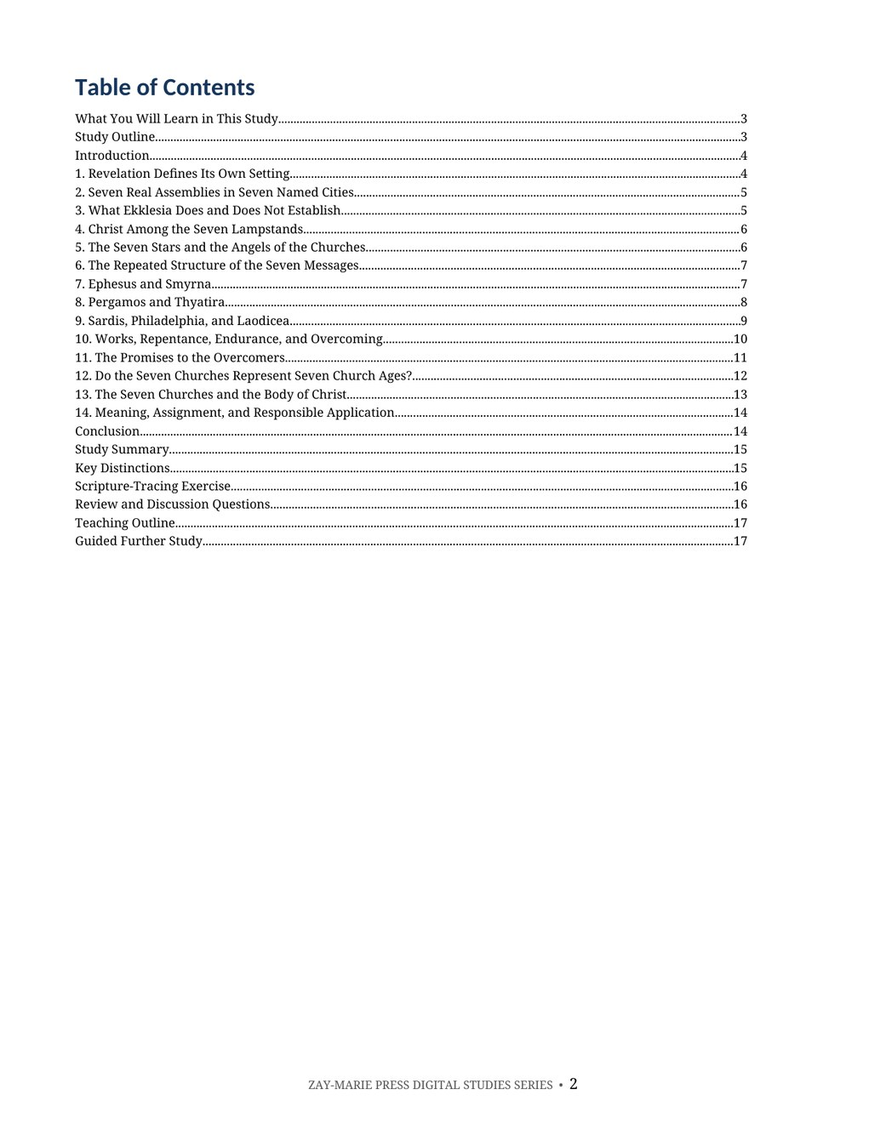
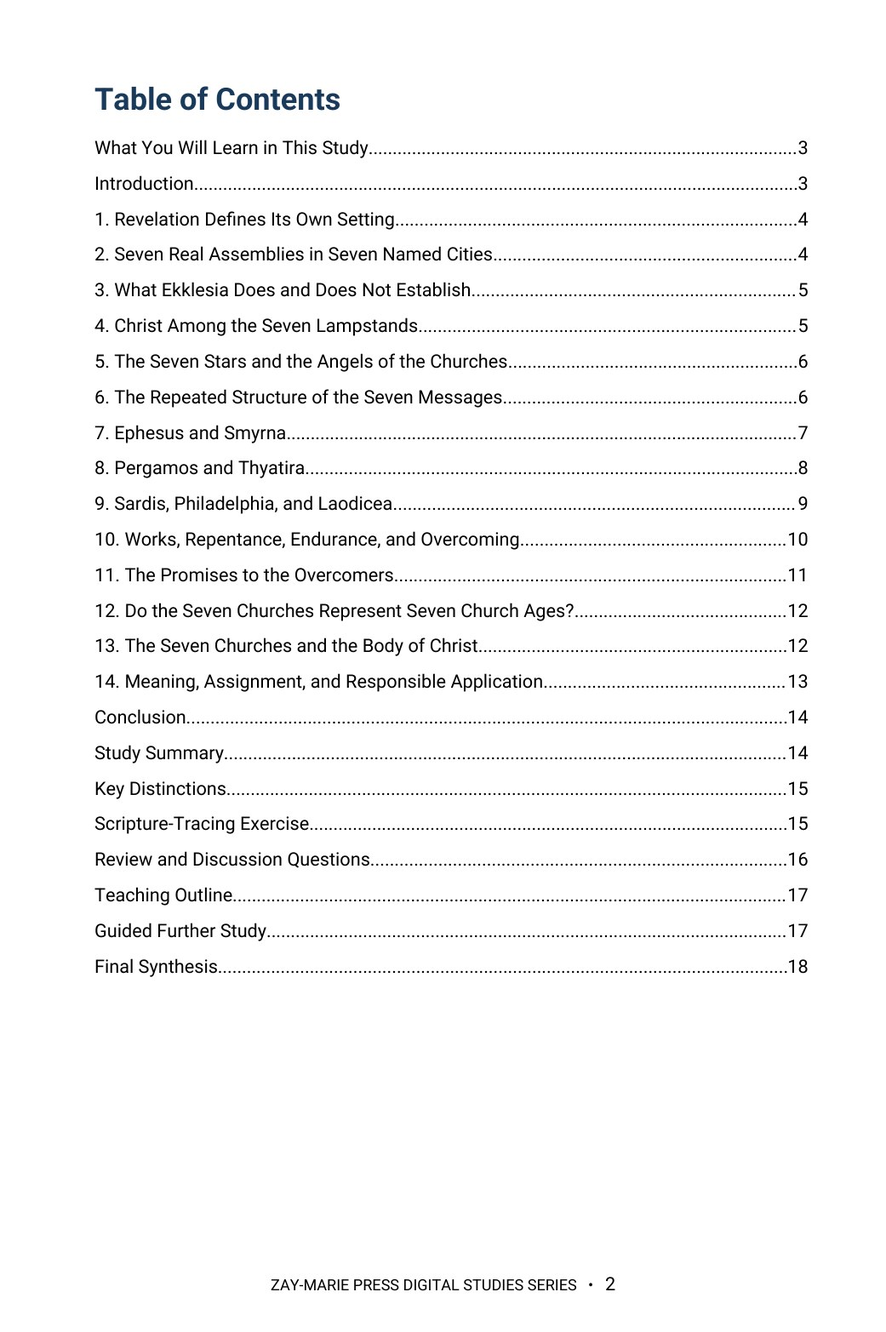
Study 26: Roboto/Standard rebuild, new cover with ISRAEL & PROPHECY label, previews 2/3/11, 18 pages; PAM audit v1.55
Claude-Session: https://claude.ai/code/session_01TLNFW47XCW6YAMUxScR3v4

diff --git a/study-26-the-seven-churches-of-revelation.html b/study-26-the-seven-churches-of-revelation.html
@@ -2,12 +2,12 @@
 <html lang="en"><head><meta charset="utf-8"><meta name="viewport" content="width=device-width,initial-scale=1"><title>The Seven Churches of Revelation - Study 26 | Zay-Marie Press</title><meta name="description" content="Examine the seven historical assemblies of Revelation 1-3 within the book’s prophetic setting and distinguish them from the Body of Christ."><link rel="stylesheet" href="styles.css"><link rel="icon" type="image/png" href="assets/zay-marie-press-favicon.png"><style>
 .study-detail-page{background:#fff;color:#252525}.detail-hero{background:linear-gradient(135deg,#f8f5ec,#e3ece2);padding:58px 0}.detail-hero-grid{display:grid;grid-template-columns:minmax(250px,.72fr) minmax(0,1.28fr);gap:58px;align-items:center}.detail-cover{max-width:390px;margin:auto}.detail-cover img{display:block;width:100%;height:auto;box-shadow:0 14px 36px rgba(8,45,69,.18)}.detail-hero h1{font-size:clamp(2.7rem,5vw,4.7rem);line-height:1.02;margin:8px 0 10px;color:#143823}.detail-subtitle{font-family:Georgia,serif;font-size:1.35rem;font-weight:700;color:#082d45;margin:0 0 7px}.detail-kicker{font-family:Georgia,serif;font-style:italic;font-size:1.05rem;color:#4a4a44;margin:0 0 22px}.detail-copy{font-size:1.08rem;line-height:1.65;max-width:760px}.detail-buyline{display:flex;align-items:center;gap:18px;flex-wrap:wrap;margin-top:25px}.detail-price{font-family:Georgia,serif;font-size:2rem;font-weight:700;color:#143823}.detail-format,.preview-card .page-no{font-family:Arial,sans-serif;font-size:.76rem;font-weight:700;letter-spacing:.1em;text-transform:uppercase;color:#176b3a}.detail-button{display:inline-block;background:#176b3a;color:#fff;padding:13px 22px;font-family:Arial,sans-serif;font-size:.8rem;font-weight:700;letter-spacing:.07em;text-transform:uppercase}.detail-button.pending{opacity:.72;cursor:default}.detail-section{padding:66px 0}.detail-section.soft{background:#f6f7f2}.detail-section.cream{background:#faf8f2}.detail-section h2{color:#143823;margin:6px 0 18px;font-size:clamp(2rem,3.4vw,3rem)}.detail-section .lead{max-width:920px;font-size:1.1rem;line-height:1.62}.study-points{display:grid;grid-template-columns:repeat(3,1fr);gap:18px;margin-top:28px;margin-bottom:28px}.study-point,.scripture-card,.preview-card,.include-item{background:#fff;border:1px solid var(--line);text-align:left}.study-point{border-top:3px solid #176b3a;padding:22px}.study-point h3{color:#143823;margin:0 0 8px;font-size:1.2rem}.study-point p,.scripture-card p,.preview-card p,.include-item p{margin:0;line-height:1.55}.scripture-grid{display:grid;grid-template-columns:repeat(4,1fr);gap:14px;margin-top:24px;margin-bottom:24px}.scripture-card{padding:22px 20px;color:#143823}.scripture-card h3{margin:0 0 9px;font-family:Georgia,serif;font-size:1rem;line-height:1.35}.scripture-card p{font-size:.94rem;color:#45453f}.excerpt{max-width:900px;margin:28px auto;border-left:4px solid #b8871c;padding:10px 0 10px 28px}.excerpt blockquote{font-family:Georgia,serif;font-size:clamp(1.45rem,2.5vw,2rem);line-height:1.45;color:#143823;margin:0 0 16px}.excerpt p{line-height:1.6;margin:0}.preview-grid{display:grid;grid-template-columns:repeat(2,1fr);gap:20px;margin-top:28px;margin-bottom:28px}.preview-card{padding:18px;min-height:210px;box-shadow:0 7px 20px rgba(20,40,25,.05)}.preview-image-link{display:block;margin:0 0 18px}.preview-image-link img{display:block;width:100%;height:auto;border:1px solid #d8d1bf;box-shadow:0 8px 22px rgba(20,40,25,.1);transition:transform .18s ease,box-shadow .18s ease}.preview-image-link:hover img{transform:translateY(-2px);box-shadow:0 11px 28px rgba(20,40,25,.16)}.preview-card h3{color:#143823;margin:8px 0 10px}.preview-instruction{margin:10px 0 0;font-family:Arial,sans-serif;font-size:.78rem;letter-spacing:.04em;color:#5b5b55}.includes-grid{display:grid;grid-template-columns:repeat(4,1fr);gap:14px;margin-top:26px}.include-item{padding:22px 20px;color:#143823}.include-item h3{margin:0 0 9px;font-family:Arial,sans-serif;font-size:.86rem;line-height:1.35;letter-spacing:.02em}.include-item p{font-size:.94rem;color:#45453f}.final-buy{background:#082d45;color:#fff;border-top:4px solid #b8871c;padding:42px 48px;display:grid;grid-template-columns:1fr auto;gap:36px;align-items:center}.final-buy .eyebrow,.final-buy h2,.final-buy .detail-price{color:#fff}.final-buy h2{margin:7px 0 6px}.final-buy p{margin:0}.final-offer{text-align:center}.back-link{display:inline-block;margin-top:18px;color:#143823;font-family:Arial,sans-serif;font-weight:700;text-decoration:none}.preview-lightbox{position:fixed;inset:0;z-index:10000;display:none;align-items:flex-start;justify-content:center;background:rgba(8,22,16,.88);padding:24px;overflow:auto}.preview-lightbox.open{display:flex}.preview-lightbox img{display:block;width:auto;height:auto;max-width:none;box-shadow:0 18px 55px rgba(0,0,0,.4);background:#fff}.preview-lightbox-close{position:fixed;top:18px;right:24px;z-index:10001;width:46px;height:46px;border:1px solid rgba(255,255,255,.65);border-radius:50%;background:rgba(0,0,0,.55);color:#fff;font:32px/1 Arial,sans-serif;cursor:pointer}@media(max-width:900px){.detail-hero-grid{grid-template-columns:1fr;gap:34px}.detail-cover{max-width:330px}.study-points{grid-template-columns:repeat(2,1fr)}.scripture-grid,.includes-grid{grid-template-columns:repeat(2,1fr)}.preview-grid,.final-buy{grid-template-columns:1fr}.final-offer{text-align:left}}@media(max-width:560px){.detail-hero{padding:42px 0}.detail-section{padding:50px 0}.study-points,.scripture-grid,.includes-grid{grid-template-columns:1fr}.final-buy{padding:32px 24px}.detail-buyline{align-items:flex-start;flex-direction:column;gap:8px}.preview-lightbox{padding:58px 10px 24px}.preview-lightbox img{width:100%;max-width:100%;height:auto}}.study-distinction{max-width:920px;margin-top:28px;margin-bottom:28px;padding:26px 28px;background:#fff;border:1px solid #d8d1bf;border-left:4px solid #b8871c}.study-distinction h3{margin:0 0 10px;color:#143823}.study-distinction p{margin:0 0 14px;line-height:1.62}.study-distinction p:last-child{margin-bottom:0}.study-distinction a{font-family:Arial,sans-serif;font-weight:700;color:#176b3a;text-decoration:none}</style></head><body class="study-detail-page">
 <header class="site-header"><div class="wrap nav"><a class="logo" href="index.html" aria-label="Zay-Marie Press home"><img src="assets/zay-marie-press-logo-hq.png" alt="Zay-Marie Press" width="420" height="238"></a><button class="menu-toggle" type="button" aria-expanded="false" aria-controls="primary-nav">MENU</button><nav aria-label="Primary navigation" class="primary-nav" id="primary-nav"><a href="index.html">HOME</a><a href="books.html">BOOKS</a><a href="series.html">SERIES</a><a class="active" aria-current="page" href="digital-studies.html">DIGITAL STUDIES</a><a href="biblical-hermeneutics-course.html">COURSE</a><a href="about.html">ABOUT</a><a href="resources.html">RESOURCES</a><a href="contact.html">CONTACT</a></nav></div></header><main>
-<section class="detail-hero"><div class="wrap detail-hero-grid"><div class="detail-cover"><img src="assets/study-26-cover.jpg" alt="The Seven Churches of Revelation - Study 26 cover"></div><div><div class="eyebrow">STUDY 26 · DIGITAL STUDY</div><h1>The Seven Churches of Revelation</h1><p class="detail-subtitle">Historical Assemblies, Their Prophetic Setting, and the Messages of Christ</p><p class="detail-kicker">A Biblical Examination of Revelation 1–3, Ecclesiological Identity, Prophetic Accountability, and Responsible Application</p><p class="detail-copy">Revelation addresses seven real assemblies in Asia and places Christ among their lampstands as Lord and Judge. Their historical reality does not remove them from the prophetic setting of the book in which they appear.</p><p class="detail-copy">This study interprets the lampstands, stars, angels, warnings, calls to repent or endure, overcoming language, and promised rewards before evaluating the seven-church-ages theory and the churches’ relationship to the Body of Christ.</p><div class="detail-buyline"><span class="detail-price">$5.99</span><span class="detail-format">Digital PDF</span><span class="detail-button pending" aria-disabled="true">Checkout Coming Soon</span></div></div></div></section>
+<section class="detail-hero"><div class="wrap detail-hero-grid"><div class="detail-cover"><picture><source srcset="assets/study-26-cover.webp" type="image/webp"><img src="assets/study-26-cover.jpg" alt="The Seven Churches of Revelation - Study 26 cover"></picture></div><div><div class="eyebrow">STUDY 26 · DIGITAL STUDY</div><h1>The Seven Churches of Revelation</h1><p class="detail-subtitle">Historical Assemblies, Their Prophetic Setting, and the Messages of Christ</p><p class="detail-kicker">A Biblical Examination of Revelation 1–3, Ecclesiological Identity, Prophetic Accountability, and Responsible Application</p><p class="detail-copy">Revelation addresses seven real assemblies in Asia and places Christ among their lampstands as Lord and Judge. Their historical reality does not remove them from the prophetic setting of the book in which they appear.</p><p class="detail-copy">This study interprets the lampstands, stars, angels, warnings, calls to repent or endure, overcoming language, and promised rewards before evaluating the seven-church-ages theory and the churches’ relationship to the Body of Christ.</p><div class="detail-buyline"><span class="detail-price">$5.99</span><span class="detail-format">Digital PDF</span><span class="detail-button pending" aria-disabled="true">Checkout Coming Soon</span></div></div></div></section>
 <section class="detail-section"><div class="wrap"><div class="eyebrow">ABOUT THIS STUDY</div><h2>Read the Seven Messages Within Revelation’s Own Setting</h2><p class="lead">The word <em>church</em> identifies an assembly, but it does not by itself establish that assembly as the Church which is Christ’s Body. Audience, message, promise, setting, and revealed purpose must determine programmatic identity.</p><p class="lead">This study begins with Revelation’s stated audience and prophetic frame, examines each assembly and the repeated structure of Christ’s messages, and separates explicit textual conclusions from responsible inference and disputed interpretation.</p><p class="lead">This is not a study of the separately identified 144,000 later in Revelation, which Study 23 examines on its own terms, nor of Daniel’s own prophetic timetable, which Study 10 establishes first. Its task is narrower: to ask what the word church actually requires of an assembly named in Revelation 2–3, and to keep that word from settling, by itself, whether any one of the seven is the Church which is Christ’s Body.</p><div class="study-distinction"><h3>How These Studies Relate</h3><p>Study 26 interprets Revelation’s messages to seven named assemblies within their prophetic setting.</p><p><a href="study-23-the-144000.html">Study 23 — The 144,000</a> Follow the separately identified 144,000 in later Revelation passages; this keeps the seven assemblies and the sealed tribal company from being assumed to be the same audience.</p><p><a href="study-10-daniels-seventieth-week.html">Study 10 — Daniel’s Seventieth Week</a> Check Daniel’s stated people and period before importing a prophetic timetable into the seven letters; the comparison disciplines claims about when those messages apply.</p><p class="connection-guide-link"><a href="study-connections.html#study-26">Explore the full connection guide for Study 26 →</a></p></div></div></section>
-<section class="detail-section soft"><div class="wrap"><div class="eyebrow">WHAT YOU’LL STUDY</div><h2>Identify the Assemblies Before Assigning Their Messages</h2><div class="study-points"><div class="study-point"><h3>Revelation’s Prophetic Setting</h3><p>Identify the audience, genre, kingdom language, coming judgment, and prophetic markers supplied by Revelation itself.</p></div><div class="study-point"><h3>Seven Historical Assemblies</h3><p>Examine the named cities and the real conditions Christ commends, exposes, corrects, and judges.</p></div><div class="study-point"><h3>Ekklesia and Identity</h3><p>Learn why the Greek word for assembly does not independently establish Body-of-Christ identity.</p></div><div class="study-point"><h3>Christ Among the Lampstands</h3><p>Interpret the lampstands, stars, and angels within Christ’s authority over the seven assemblies.</p></div><div class="study-point"><h3>Overcoming and Reward</h3><p>Trace repentance, endurance, promised rewards, and their connections with Revelation’s later chapters.</p></div><div class="study-point"><h3>The Church-Ages Theory</h3><p>Evaluate the seven-age interpretation without presenting a disputed historical construction as explicit Scripture.</p></div></div></div></section>
+<section class="detail-section soft"><div class="wrap"><div class="eyebrow">WHAT YOU’LL STUDY</div><h2>Identify the Assemblies Before Assigning Their Messages</h2><div class="study-points"><div class="study-point"><h3>Revelation’s Prophetic Setting</h3><p>Identify the audience, genre, kingdom language, coming judgment, and prophetic markers supplied by Revelation itself.</p></div><div class="study-point"><h3>Seven Historical Assemblies</h3><p>Examine the named cities and the real conditions Christ commends, exposes, corrects, and judges.</p></div><div class="study-point"><h3>Ekklesia and Identity</h3><p>Trace how the Greek word for assembly is used in Acts and Paul, and test what the word alone can establish.</p></div><div class="study-point"><h3>Christ Among the Lampstands</h3><p>Interpret the lampstands, stars, and angels within Christ’s authority over the seven assemblies.</p></div><div class="study-point"><h3>Overcoming and Reward</h3><p>Trace repentance, endurance, promised rewards, and their connections with Revelation’s later chapters.</p></div><div class="study-point"><h3>The Church-Ages Theory</h3><p>Test the seven-age interpretation by sorting its claims into what the text states, what it infers, and what it assumes.</p></div></div></div></section>
 <section class="detail-section cream"><div class="wrap"><div class="eyebrow">KEY SCRIPTURES</div><h2>Trace the Messages Through Revelation</h2><div class="scripture-grid"><div class="scripture-card"><h3>Revelation 1:1–11</h3><p>Prophecy, named recipients, Christ’s coming, tribulation, kingdom, and the command to write.</p></div><div class="scripture-card"><h3>Revelation 1:12–20</h3><p>Christ among the lampstands and the inspired identification of the stars and lampstands.</p></div><div class="scripture-card"><h3>Revelation 2:1–29</h3><p>Ephesus, Smyrna, Pergamos, and Thyatira: commendation, rebuke, repentance, endurance, and promise.</p></div><div class="scripture-card"><h3>Revelation 3:1–22</h3><p>Sardis, Philadelphia, and Laodicea: watchfulness, preservation, correction, and inheritance.</p></div><div class="scripture-card"><h3>Psalm 2:1–12</h3><p>Messianic authority over the nations behind the promise in Revelation 2:26–27.</p></div><div class="scripture-card"><h3>Isaiah 22:20–25</h3><p>The key imagery Christ applies to His authority in Revelation 3:7.</p></div><div class="scripture-card"><h3>Revelation 20–22</h3><p>Reign, the second death, New Jerusalem, the tree of life, and promised inheritance.</p></div><div class="scripture-card"><h3>Ephesians 1:15–23; 3:1–12</h3><p>The Body’s identity and Mystery setting revealed through Paul for careful comparison.</p></div></div></div></section>
 <section class="detail-section"><div class="wrap"><div class="eyebrow">FROM THE STUDY</div><h2>Meaning Comes Before Assignment</h2><div class="excerpt"><blockquote>“The word church identifies an assembly. It does not, by itself, identify that assembly as the Church which is Christ’s Body.”</blockquote><p>Revelation’s audience markers, prophetic setting, warnings, rewards, and internal connections must govern the identity and assignment of the seven messages.</p></div></div></section>
-<section class="detail-section soft"><div class="wrap"><div class="eyebrow">A LOOK INSIDE</div><h2>Preview the Study Before You Purchase</h2><p class="preview-instruction">Click any page to enlarge it for reading.</p><div class="preview-grid"><div class="preview-card"><a class="preview-image-link" data-preview-lightbox href="assets/study-26-page-2.jpg"><img src="assets/study-26-page-2.jpg" alt="Study 26 interior preview — page 2, table of contents"/></a><div class="page-no">Page 2</div><h3>Table of Contents</h3><p>See the full structure of the study, from the introduction through the final synthesis.</p></div><div class="preview-card"><a class="preview-image-link" data-preview-lightbox href="assets/study-26-page-3.jpg"><img src="assets/study-26-page-3.jpg" alt="Study 26 interior preview — page 3, what you will learn"/></a><div class="page-no">Page 3</div><h3>What You Will Learn</h3><p>See the study’s goals, controls, and central question at a glance.</p></div><div class="preview-card"><a class="preview-image-link" data-preview-lightbox href="assets/study-26-page-6.jpg"><img src="assets/study-26-page-6.jpg" alt="Study 26 interior preview — page 6, Christ among the lampstands and the angels"/></a><div class="page-no">Page 6</div><h3>Lampstands, Stars, and Angels</h3><p>Separate Revelation’s explicit interpretations from questions the text leaves disputed.</p></div></div></div></section>
+<section class="detail-section soft"><div class="wrap"><div class="eyebrow">A LOOK INSIDE</div><h2>Preview the Study Before You Purchase</h2><p class="preview-instruction">Click any page to enlarge it for reading.</p><div class="preview-grid"><div class="preview-card"><a class="preview-image-link" data-preview-lightbox href="assets/study-26-page-2.jpg"><img src="assets/study-26-page-2.jpg" alt="Study 26 interior preview — page 2, table of contents"/></a><div class="page-no">Page 2</div><h3>Table of Contents</h3><p>See the full structure of the study, from the introduction through the final synthesis.</p></div><div class="preview-card"><a class="preview-image-link" data-preview-lightbox href="assets/study-26-page-3.jpg"><img src="assets/study-26-page-3.jpg" alt="Study 26 interior preview — page 3, what you will learn"/></a><div class="page-no">Page 3</div><h3>What You Will Learn</h3><p>See the skills you will practice and the study goal at a glance.</p></div><div class="preview-card"><a class="preview-image-link" data-preview-lightbox href="assets/study-26-page-11.jpg"><img src="assets/study-26-page-11.jpg" alt="Study 26 interior preview — page 11, the promises to the overcomers"/></a><div class="page-no">Page 11</div><h3>The Promises to the Overcomers</h3><p>Follow each promise to the overcomer into Revelation’s closing chapters.</p></div></div></div></section>
 <section class="detail-section"><div class="wrap"><div class="eyebrow">WHAT’S INCLUDED</div><h2>A Focused Study Built for<br>Understanding and Teaching</h2><div class="includes-grid"><div class="include-item"><h3>Prophetic Setting</h3><p>Read Revelation 1–3 within the genre, audience, kingdom, tribulation, and judgment markers supplied by the book.</p></div><div class="include-item"><h3>Historical Assemblies</h3><p>Examine all seven named churches and the specific conditions Christ addresses in each assembly.</p></div><div class="include-item"><h3>Ekklesia Word Study</h3><p>Distinguish the lexical meaning of assembly from the theological identity established by context and revelation.</p></div><div class="include-item"><h3>Message Structure</h3><p>Compare Christ’s self-identification, knowledge, evaluation, commands, warnings, calls to hear, and promises.</p></div><div class="include-item"><h3>Overcomer Promises</h3><p>Trace life, vindication, kingdom authority, throne, temple, and New Jerusalem themes through Revelation.</p></div><div class="include-item"><h3>Evidence Categories</h3><p>Separate explicit textual conclusions, responsible inferences, and disputed interpretations.</p></div><div class="include-item"><h3>Programmatic Distinction</h3><p>Compare Revelation’s prophetic markers with the Mystery identity of the Body revealed through Paul.</p></div><div class="include-item"><h3>Teaching and Discussion Tools</h3><p>Use the summary, key distinctions, Scripture tracing, review questions, teaching outline, and guided further study.</p></div></div></div></section>
 <section class="detail-section cream"><div class="wrap"><div class="final-buy"><div><div class="eyebrow">STUDY 26 · DIGITAL STUDY</div><h2>The Seven Churches of Revelation</h2><p>Digital PDF · For personal use</p></div><div class="final-offer"><div class="detail-price">$5.99</div><span class="detail-button pending" aria-disabled="true">Checkout Coming Soon</span></div></div><a class="back-link" href="digital-studies.html">← Back to All Digital Studies</a></div></section><section class="study-method-course-bridge"><div class="wrap"><div class="study-method-course-panel"><div><div class="eyebrow">BUILD THE INTERPRETIVE METHOD</div><h2>Want More Than a Focused Study?</h2><p>Digital Studies examine particular biblical subjects and difficult passages. The 40-lesson Biblical Hermeneutics course teaches a complete, repeatable method for establishing meaning in context, determining proper assignment, and making responsible application.</p></div><a class="btn btn-primary" href="biblical-hermeneutics-course.html">BIBLICAL HERMENEUTICS COURSE</a></div></div></section></main>
 <div class="preview-lightbox" id="preview-lightbox" role="dialog" aria-modal="true" aria-label="Expanded study preview"><button class="preview-lightbox-close" type="button" aria-label="Close preview">×</button><img id="preview-lightbox-image" alt=""></div><footer class="site-footer"><div class="wrap footer-grid"><div class="footer-about"><h3>Zay-Marie Press</h3><p class="footer-tagline"><em>Where the Bible Means What It Says.</em></p><p>Zay-Marie Press is a Christian theological publisher dedicated to producing doctrinally precise, carefully structured biblical resources that equip pastors, teachers, and serious students with clarity, depth, and Scripture-anchored truth.</p><p><a href="https://zaymariepress.com">zaymariepress.com</a><br/><a href="mailto:info@zaymariepress.com">info@zaymariepress.com</a></p></div><div class="footer-column"><h3>Explore</h3><div class="footer-links-stacked"><a href="books.html">Books</a><br/><a href="series.html">Series</a><br/><a href="biblical-hermeneutics-course.html">Course</a><br/><a href="digital-studies.html">Digital Studies</a><br/><a href="resources.html">Resources</a><br/><a href="bible-book-summaries.html">Bible Book Summaries</a><br/><a href="doctrinal-packets.html">Doctrinal Packets</a><br/><a href="historical-drift.html">Historical Drift</a><br/><a href="about.html">About</a><br/><a href="contact.html">Contact</a></div></div><div class="footer-column"><h3>Reader Support</h3><div class="footer-links-stacked"><a href="reader-support.html#faq">FAQ</a><br/><a href="reader-support.html#shipping-returns">Shipping &amp; Returns</a><br/><a href="reader-support.html#digital-downloads">Digital Downloads</a><br/><a href="reader-support.html#contact-support">Contact Support</a></div></div><div class="footer-column"><h3>Acts Overlap</h3><p><strong>Acts Overlap Theology Series</strong></p><p><em>Two Distinct Streams. One Overlap.</em></p><p><a href="series.html">Series Overview</a></p></div></div><div class="wrap footer-bottom">© 2026 Zay-Marie Press. All rights reserved.</div></footer><script src="site.js"></script><script>const lightbox=document.getElementById('preview-lightbox'),lightboxImage=document.getElementById('preview-lightbox-image'),closeLightbox=()=>{lightbox.classList.remove('open');lightboxImage.src='';};document.querySelectorAll('[data-preview-lightbox]').forEach(link=>link.addEventListener('click',event=>{event.preventDefault();lightboxImage.src=link.href;lightboxImage.alt=link.querySelector('img').alt;lightbox.classList.add('open');}));document.querySelector('.preview-lightbox-close').addEventListener('click',closeLightbox);lightbox.addEventListener('click',event=>{if(event.target===lightbox)closeLightbox();});document.addEventListener('keydown',event=>{if(event.key==='Escape')closeLightbox();});</script></body></html>

diff --git a/site.js b/site.js
@@ -62,7 +62,7 @@ const resourceModal=document.querySelector('#resource-modal'), resourceModalTitl
 if(resourceModal&&resourceModalTriggers.length){const closeResourceModal=()=>{resourceModal.hidden=true;document.body.classList.remove('resource-modal-open');lastResourceTrigger?.focus();};resourceModalTriggers.forEach(trigger=>trigger.addEventListener('click',()=>{lastResourceTrigger=trigger;if(resourceModalTitle)resourceModalTitle.textContent=trigger.dataset.title||'Resource';if(resourceModalDescription)resourceModalDescription.textContent=trigger.dataset.description||'';if(resourceModalLink){resourceModalLink.href=trigger.dataset.href||'#';resourceModalLink.textContent=trigger.dataset.linkText||'OPEN RESOURCE';}resourceModal.hidden=false;document.body.classList.add('resource-modal-open');resourceModalClose?.focus();}));resourceModalClose?.addEventListener('click',closeResourceModal);resourceModal.addEventListener('click',e=>{if(e.target===resourceModal)closeResourceModal();});document.addEventListener('keydown',e=>{if(e.key==='Escape'&&!resourceModal.hidden)closeResourceModal();});}
 
 /* Display the verified final-PDF page count at the primary purchase decision point. */
-const digitalStudyPageCounts={1:14,2:14,3:18,4:18,5:16,6:16,7:16,8:16,9:16,10:23,11:15,12:14,13:18,14:15,15:16,16:16,17:18,18:18,19:16,20:16,21:16,22:16,23:16,24:16,25:17,26:17,27:15,28:14,29:13,30:17,31:17,32:14,33:15,34:16,35:15,36:15,37:15,38:16,39:16,40:15,41:15,42:15,43:17,44:15,45:15,46:15,47:16,48:15,49:14,50:14,51:15,52:15,53:15,54:15,55:16,56:16,61:16,62:16,63:16,64:16,65:16,66:16,67:16,68:16,69:16,70:16,71:16};
+const digitalStudyPageCounts={1:14,2:14,3:18,4:18,5:16,6:16,7:16,8:16,9:16,10:23,11:15,12:14,13:18,14:15,15:16,16:16,17:18,18:18,19:16,20:16,21:16,22:16,23:16,24:16,25:17,26:18,27:15,28:14,29:13,30:17,31:17,32:14,33:15,34:16,35:15,36:15,37:15,38:16,39:16,40:15,41:15,42:15,43:17,44:15,45:15,46:15,47:16,48:15,49:14,50:14,51:15,52:15,53:15,54:15,55:16,56:16,61:16,62:16,63:16,64:16,65:16,66:16,67:16,68:16,69:16,70:16,71:16};
 const digitalStudyMatch=window.location.pathname.match(/\/study-(\d+)-/i);
 const digitalStudyFormat=document.querySelector('.detail-hero .detail-format');
 if(digitalStudyMatch&&digitalStudyFormat){const studyNumber=Number(digitalStudyMatch[1]),pageCount=digitalStudyPageCounts[studyNumber];if(pageCount)digitalStudyFormat.textContent=`Digital PDF · ${pageCount} Pages`;}

diff --git a/controlling-documents/Digital_Studies_PAM_Audit_v1.55.md b/controlling-documents/Digital_Studies_PAM_Audit_v1.55.md
@@ -1,4 +1,4 @@
-# Digital Studies vs. PAM Audit — v1.44
+# Digital Studies vs. PAM Audit — v1.55
 
 Working tracker and instructions for checking the Digital Studies against the Program Assignment Manual (PAM), §XIX of `Framework_Control_Document_Acts_Overlap.docx`, including its "Section 4 — Publisher Rulings". Same `_vX.Y` convention as the other controlling documents: update the status table and changelog as the audit proceeds, bump the version, and rename the file to match.
 
@@ -284,3 +284,4 @@ Study 15 PDF not yet supplied. Typography: none of Studies 2, 3, 6, 8 is in EB G
 - v1.52 (2026-10-01): Study 23 (The 144,000) read in full against the PAM and Framework from the publisher's DOCX (14 pages): clear, no conflicts (144,000 as sealed servants from Israel's tribes and firstfruits; "the 144,000 ≠ the entire remnant" and the subset-within-the-remnant language match §XVII; the scattered/protected/repentant/sealed taxonomy is correctly called a synthesis; great multitude distinct; Prophecy/Israel distinct from Mystery/Body; PAM silent on Revelation, so the text is reported). Approved addition: one pointer sentence at the end of Section 8 — "Revelation 12:5 and 14:1–5 bear on the same company; that identification is traced in Study 61 and is not argued here." (Framework's male-child ruling is not argued in Study 23.) Rebuilt to the Master Standard (Roboto, five boxed callouts — Interpretive Restraint became a bold run-in, TOC first, flat-bullet Teaching Outline and Guided Further Study, standard imprint; 16 pages). What You Will Learn, Study Goal and Study Outline rewritten in process wording per §17 (the old Study Goal stated the conclusion). Website cover kept (ISRAEL & PROPHECY); JPG + WebP; three previews (pages 2 TOC, 3 What You Will Learn, 10 Revelation 14 description) replacing four; page count 15 → 16. Publisher approved ("i approve").
 - v1.53 (2026-10-01): Study 24 (The Willful Sin Warning) read in full against the PAM and Framework from the publisher's PDF (13 pages; no DOCX): no conflicts (Overlap statements match the Framework and PAM Rule 4; New Covenant never applied to the Body, matching Framework item 6; Body's standing kept in the Mystery). The PAM does not assign Hebrews as a book, so §10 was retitled "Audience and Program: Hebrews in Its Covenant Setting" and an anchoring sentence added (PAM Rule 1): the Framework does not assign Hebrews; the reading rests on the letter's audience markers and the New Covenant ruling. Publisher ruling recorded in the Framework (§XIX, "Section 4 (continued) — Additional Publisher Ruling (2026-10-01)") and in CLAUDE.md: Hebrews is unassigned as a book but read interpretively within Israel's Prophecy line for covenant context; stated as an interpretive reading, and Hebrews' warnings are not converted into warnings to the Body. The source PDF had three patch defects, repaired (cut-off §10 sentence, cut-off Conclusion sentence, Review Questions numbered 6–15 → 1–10). Rebuilt to the Master Standard (Roboto, five boxed callouts — Context Control and Key Distinction became run-ins, TOC first, flat-bullet Teaching Outline, standard imprint, What You Will Learn in process wording per §17) with three approved KJV tables; 16 pages. Cover: publisher's PASSAGES cover, "SIN WARNING" reduced 25%, JPG + WebP (source image 684×1024, enlarged to 1024×1536). Website: three previews (pages 2 TOC, 3 What You Will Learn, 11 warning passages compared) replacing three; page count 13 → 16 in site.js. Publisher approved ("i approve").
 - v1.54 (2026-10-01): Study 25 (The Signs That Followed) read in full against the PAM and Framework from the publisher's PDF (13 pages; no DOCX): no conflicts (Acts 1–8 Prophecy and Acts 9–28 Overlap per PAM Rule 4; Acts 2 tongues as a Joel 2 prophetic sign and "Repent and be baptized" as Kingdom entry; 1 Corinthians 1:17 and Spirit baptism into one Body distinct from water baptism per the Framework's water-baptism ruling; Paul's signs not transferring the Kingdom Commission per the Framework's signs section; 1 Corinthians 13:8–10 not addressed). Approved additions (study silent where the Framework speaks): Paul's own baptizing (1 Corinthians 1:14–16; Acts 16:15, 33; 18:8; 19:5) in §14; the Framework's four tests for signs (audience, purpose, revelatory setting, immediate context) in §13; and a Rule 1 sentence in §1 stating that the Framework names Matthew 28:18–20, Luke 24:47 and Acts 1:8 as the Twelve's Kingdom Commission and that Mark 16:15–20 is read alongside them as an interpretive reading. Rebuilt to the Master Standard (Roboto, five boxed callouts — Audience Control and Acts Overlap and Distinct Commissions became run-ins, TOC first, bullet Teaching Outline and Summary, Review Questions renumbered 1–10, standard imprint; What You Will Learn and Study Goal rewritten in process wording per §17). Two KJV tables added (Mark 16:15–20; the signs beside the Acts accounts); a third (parallel commissions) was written but left out because it pushed the study to 18 pages; 17 pages, one over the 16-page target, accepted by the publisher. Cover built from the publisher's artwork (landscape image placed under a dark title field; "Made with AI" badge and the quotation line removed; PASSAGES label; title and subtitle reduced 30%, subtitle moved up), JPG + WebP. Website: three previews (pages 2 TOC, 3 What You Will Learn, 10 signs beside the Acts accounts) replacing three; page count 13 → 17 in site.js. Publisher approved ("i approve").
+- v1.55 (2026-10-01): Study 26 (The Seven Churches of Revelation) read in full against the PAM and Framework from the publisher's DOCX (17 interior pages): no conflicts. The PAM assigns no program to Revelation as a book (Rule 1) and the Framework addresses only §XVII (144,000; male child of Rev 12:5), so the study's placement of Revelation 1–3 within Israel's Prophecy line is stated as an interpretive reading drawn from the text's own markers, not a PAM assignment (same treatment as Hebrews, v1.53); the §14 Assignment paragraph and the Conclusion were reworded to say so. "No covenantal tie to the New Jerusalem" for the Body matches the Framework. Approved addition: one sentence in §8 (Thyatira) noting that the Framework extends the rod-of-iron authority to overcomers in company with Christ (Rev 2:26–27) with a pointer to Study 61. Rebuilt to the Master Standard (Roboto, five boxed callouts with Word Study, Evidence and Historical Inference as run-ins, Slate Blue tables, TOC first, Study Outline as bullets, 18 pages including cover; length exception, 17 interior). What You Will Learn points 2, 3, 7 and 8, the Study Goal, and the website "What You'll Study" points 3 and 6 were reworded in process wording (§17). Cover: publisher's artwork with ISRAEL & PROPHECY label; title restacked at the publisher's direction (THE SEVEN CHURCHES / OF / REVELATION, the last two lines reduced 30% and then a further 25%). Previews: pages 2, 3 and 11 (Promises to the Overcomers). Category: Israel & Prophecy (Category Standard v1.1).
